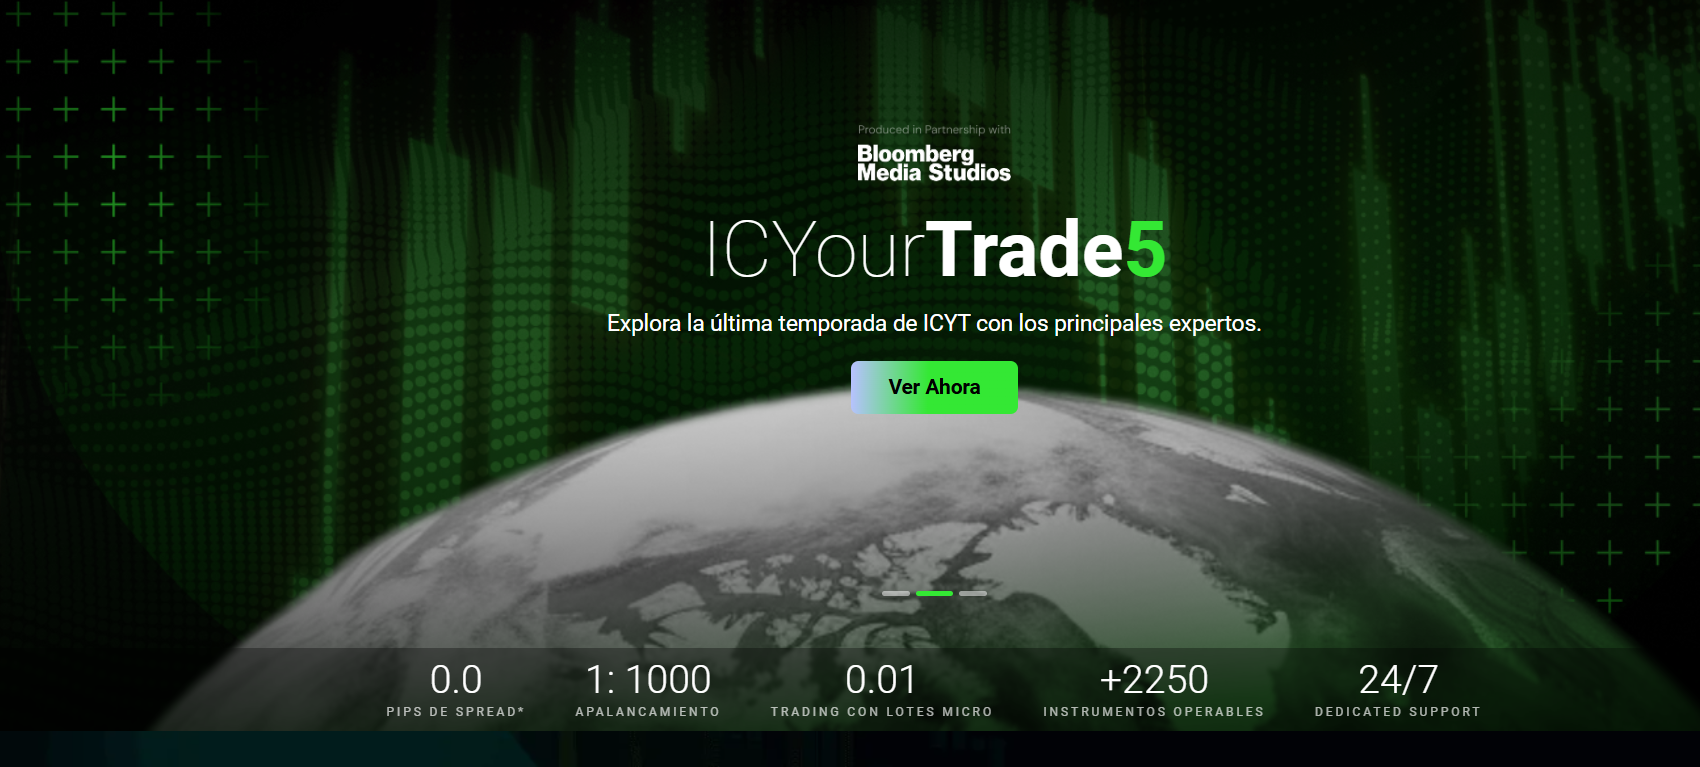
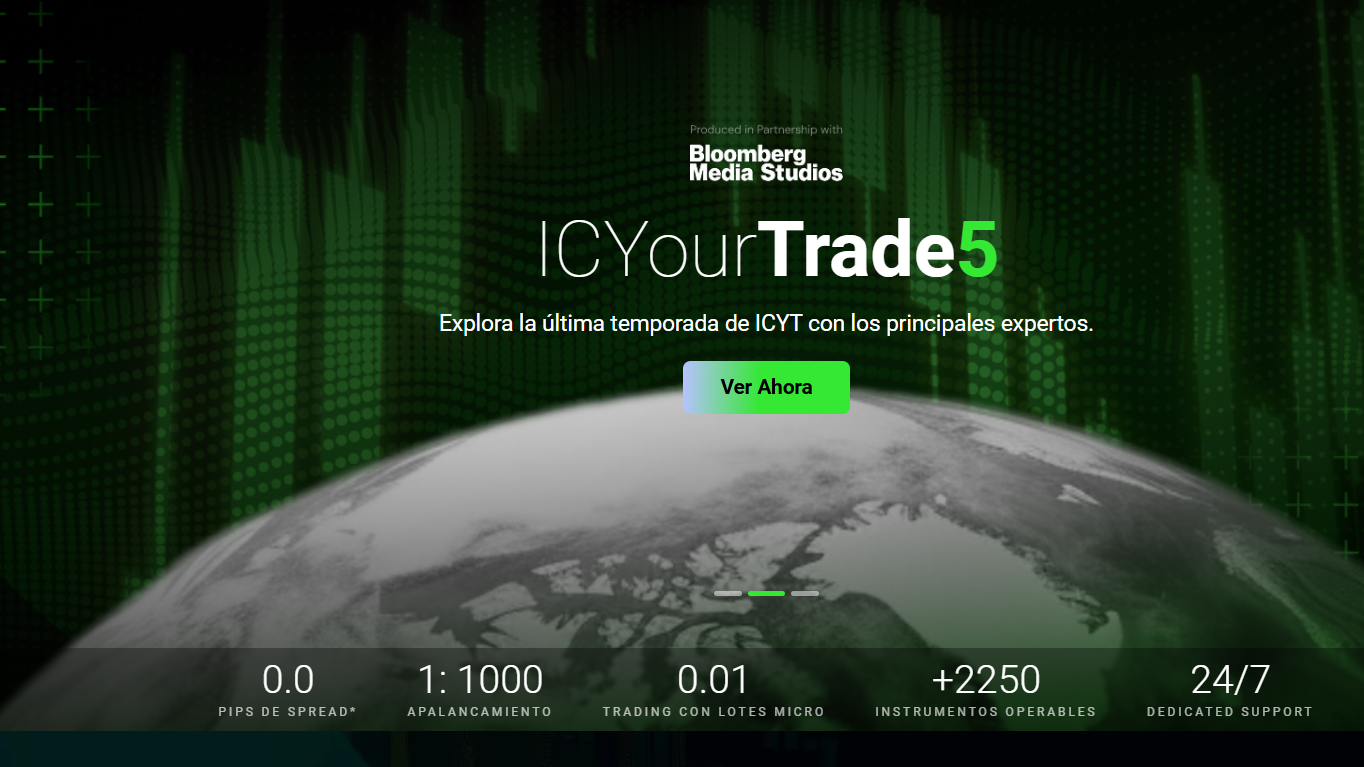
modificaciones adaptacion responsive

diff --git a/css/style.css b/css/style.css
@@ -87,7 +87,6 @@ h2{
 .section-blog,
 .contacto{
   padding: 10px;
-  margin: 10px;
   width: 100%;
 }
 
@@ -147,7 +146,7 @@ h3{
   background-color: whitesmoke;
   color: black;
   text-align:left;
-  font-size: 30px;
+  font-size: 12px;
   font-style: oblique;
 }
 
@@ -219,12 +218,6 @@ h4{
             object-fit: cover; /* Asegura que la imagen cubra todo el espacio sin distorsión */
             height: auto; /* Altura fija para escritorio */
             width: 100%;
-        }
-
-        @media (max-width: 768px) {
-            .elegant-carousel .carousel-item img {
-                height: 300px; /* Altura más baja en móviles */
-            }
         }
 
         /* Estilo para la transición de fundido */
@@ -324,32 +317,6 @@ h4{
   font-size: 12px;
   font-family:Arial, Helvetica, sans-serif
 }
-
-/* Responsividad básica para pantallas pequeñas */
-@media (max-width: 768px) {
-    .blog-post h3 {
-        font-size: 1.5em;
-    }
-}
-
-/* Responsive mínimo usando Bootstrap + ajustes CSS */
-@media (max-width: 480px) {
-  .h1 { font-size: 22px; }
-  h2 { font-size: 22px; }
-  .p-header, p { font-size: 16px; }
-  .p-plataformas { font-size: 18px; }
-  .h3-sobre-nosotros { font-size: 30px; }
-  footer { font-size: 14px; }
-}
-
-@media (min-width: 481px) and (max-width: 768px) {
-  .h1 { font-size: 26px; }
-  h2 { font-size: 26px; }
-  .p-header, p { font-size: 18px; }
-  .p-plataformas { font-size: 22px; }
-  .h3-sobre-nosotros { font-size: 40px; }
-  footer { font-size: 16px; }
-}
 .button-contacto{
 padding: 10px;
 margin: 10px;
@@ -370,3 +337,34 @@ padding: 5px;
   font-size: 12px;
   font-family:Arial, Helvetica, sans-serif
 }
+
+/* Responsividad básica para pantallas pequeñas */
+@media (max-width: 768px) {
+    .blog-post h3 {
+        font-size: 1em;
+    }
+}
+
+/* Responsive mínimo usando Bootstrap + ajustes CSS */
+@media (max-width: 480px) {
+  .h1 { font-size: 22px; }
+  h2 { font-size: 17px; }
+  .p-header, p { font-size: 16px; }
+  .p-plataformas { font-size: 18px; }
+  .h3-sobre-nosotros { font-size: 20px; }
+  .h3-contacto { font-size: 17px; }
+  .text-center { font-size: 15px; }
+  h4 { font-size: 15px; }
+  footer p { font-size: 10px; }
+}
+
+@media (min-width: 481px) and (max-width: 768px) {
+  .h1 { font-size: 26px; }
+  h2 { font-size: 26px; }
+  .p-header, p { font-size: 18px; }
+  .p-plataformas { font-size: 22px; }
+  .h3-sobre-nosotros { font-size: 40px; }
+  footer { font-size: 16px; }
+}
+
+

diff --git a/index.html b/index.html
@@ -67,20 +67,20 @@
   </nav>
   <div class="container-fluid mt-5">
    
-    <div id="elegantCarousel" class="carousel slide carousel-fade elegant-carousel" data-bs-ride="carousel">
+    <div id="elegantCarousel" class="carousel slide carousel-fade elegant-carousel p-2 " data-bs-ride="carousel">
         <div class="carousel-inner">
             <div class="carousel-item active">
-                <img src="./assets/img1.png" class="d-block w-100" alt="Imagen 1">
+                <img src="./assets/img1.png" class="img-fluid w-100" alt="Imagen 1">
                 <div class="carousel-caption d-none d-md-block">
                 </div>
             </div>
             <div class="carousel-item">
-                <img src="./assets/img2.png" class="d-block w-100" alt="Imagen 2">
+                <img src="./assets/img2.png" class="img-fluid w-100" alt="Imagen 2">
                 <div class="carousel-caption d-none d-md-block">
                 </div>
             </div>
             <div class="carousel-item">
-                <img src="./assets/img3.png" class="d-block w-100" alt="Imagen 3">
+                <img src="./assets/img3.png" class="img-fluid w-100" alt="Imagen 3">
                 <div class="carousel-caption d-none d-md-block">
                 </div>
             </div>
@@ -263,7 +263,7 @@
             </section>
             <h2>Contactenos</h2>
         <section class=" my-4"></section>
-            <form action="#" method="post" class="form w-25">
+            <form action="#" method="post" class="form w-50">
                 <div class="mb-3">
                     <label for="nombre" class="label">Nombre</label>
                     <input type="text" id="nombre" name="nombre" class="form-control">

diff --git a/pages/contacto.html b/pages/contacto.html
@@ -88,7 +88,7 @@
             </section>
             <h2>Contactenos</h2>
         <section class=" my-4"></section>
-            <form action="#" method="post" class="form w-25">
+            <form action="#" method="post" class="form w-50">
                 <div class="mb-3">
                     <label for="nombre" class="label">Nombre</label>
                     <input type="text" id="nombre" name="nombre" class="form-control">
